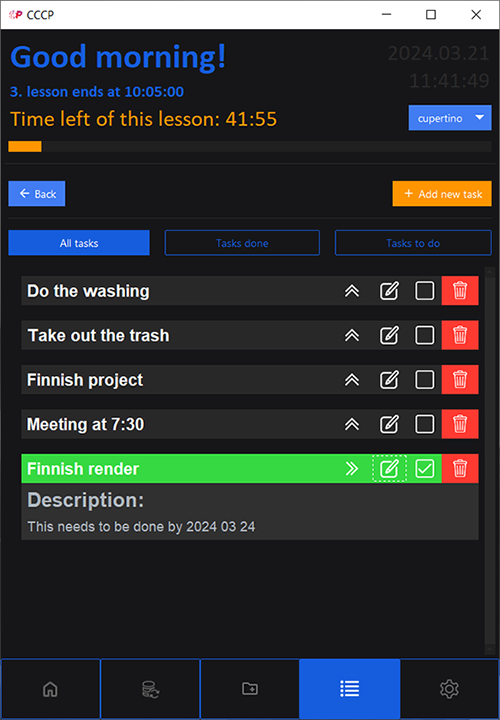
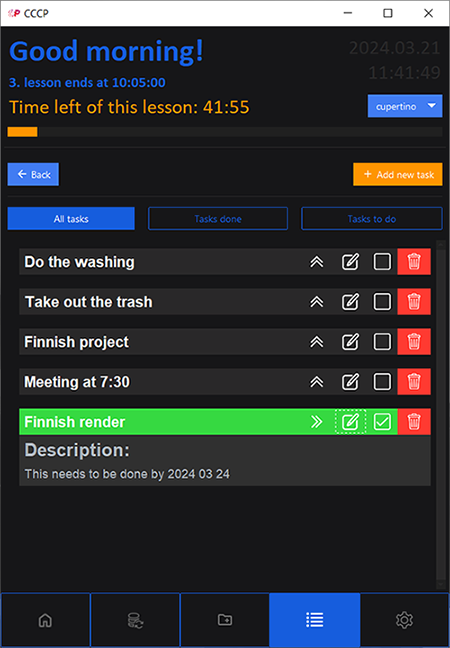
Added high dpi toggle, changed readme images

diff --git a/Modules/Pages/Settings/Settings.py b/Modules/Pages/Settings/Settings.py
@@ -1,3 +1,5 @@
+from ttkbootstrap.dialogs import Messagebox
+
 from Modules.Utilities import Assets
 from Modules.Configfile.Update_Configfile import UpdateConfigfile
 from Modules.Pages.Settings.Sub_Pages.About.About import About
@@ -21,6 +23,7 @@ class Settings(SettingsUI):
         self.refresh_theme()
 
         # Setting widget values
+        self.dpi_var.set(self.config.high_dpi_mode)
         self.custom_themes_button_var.set(self.config.custom_themes)
         reminder_value = "minute" if self.config.reminder_activation == 1 else "minutes"
         self.reminder_activation_var.set(f"{self.config.reminder_activation} {reminder_value}")
@@ -38,6 +41,7 @@ class Settings(SettingsUI):
         self.page_var.trace("w", self.change_starting_page)
         self.theme_var.trace("w", self.change_theme)
         self.custom_themes_button_var.trace("w", self.change_custom_themes)
+        self.dpi_var.trace("w", self.change_high_dpi_mode)
         self.reminder_activation_var.trace("w", self.change_reminder_activation)
         self.browser_var.trace("w", self.change_browser)
         self.progress_bar_var.trace("w", self.change_progress_bar_settings)
@@ -68,6 +72,11 @@ class Settings(SettingsUI):
 
     def refresh_theme(self):
         self.theme_changer.set_menu(None, *self.style_controller.themes)
+
+    def change_high_dpi_mode(self, *args):
+        UpdateConfigfile("high_dpi_mode", self.dpi_var.get())
+        Messagebox.show_warning(title="Warning!",
+                                message="This option will take effect once the application is restarted.")
 
     def change_custom_themes(self, *args):
         custom_themes = bool(self.custom_themes_button_var.get())

diff --git a/Modules/Pages/Settings/UI/Settings_UI.py b/Modules/Pages/Settings/UI/Settings_UI.py
@@ -113,6 +113,50 @@ class SettingsUI:
         self.custom_themes_button.pack(pady=10, side="right", padx=5)
         custom_themes_frame.pack(fill="x")
 
+        # Create high dpi mode
+        dpi_frame = ttk.Frame(general_settings)
+        self.dpi_icon = tk.PhotoImage(file="Assets/Images/Dpi_Icon.png")
+        dpi_label = ttk.Label(dpi_frame,
+                                        text="Enable high dpi mode",
+                                        image=self.dpi_icon,
+                                        compound="left")
+
+        self.dpi_var = tk.IntVar()
+        self.dpi_button = ttk.Checkbutton(
+            master=dpi_frame,
+            style=button_style,
+            variable=self.dpi_var)
+
+        dpi_label.pack(side="left", padx=10, pady=10)
+        self.dpi_button.pack(pady=10, side="right", padx=5)
+        dpi_frame.pack(fill="x")
+
+
+
+
+
+
+
+
+
+
+
+
+
+
+
+
+
+
+
+
+
+
+
+
+
+
+
         # Create theme selector
         theme_frame = ttk.Frame(general_settings)
         self.theme_icon = tk.PhotoImage(file="Assets/Images/Themes_Icon.png")

diff --git a/Modules/Configfile/Config.py b/Modules/Configfile/Config.py
@@ -28,6 +28,7 @@ class Configfile:
         self.enable_secondary_notifier = True
         self.enable_progress_bar = True
         self.current_page = 0
+        self.high_dpi_mode = True
         self.browser = ""
         self.image_locations = []
         self.program_locations = []
@@ -81,6 +82,7 @@ class Configfile:
             self.enable_secondary_notifier = file['enable_secondary_notifier']
             self.enable_progress_bar = file['enable_progress_bar']
             self.current_page = file['current_page']
+            self.high_dpi_mode = file['high_dpi_mode']
             self.browser = file['browser']
             self.number_of_lessons = file['number_of_lessons']
             self.image_locations = file["image_locations"]

diff --git a/CCCP.py b/CCCP.py
@@ -21,8 +21,10 @@ class CCCP:
         self.window.title("CCCP")
         icon = tk.PhotoImage(file="Assets/Images/CCCP_logo_500x500.png")
         self.window.iconphoto(True, icon)
-        ttk.utility.enable_high_dpi_awareness(self.window, scaling=1.6)
         self.style = ttk.Style()
+
+        if config.high_dpi_mode:
+            ttk.utility.enable_high_dpi_awareness(self.window, scaling=1.6)
 
         self.top_frame = ttk.Frame(master=self.window)
         self.top_frame.pack(fill="both")

diff --git a/Modules/Configfile/Config_Data.py b/Modules/Configfile/Config_Data.py
@@ -12,6 +12,7 @@ config_data = {
             "enable_secondary_notifier": True,
             "enable_progress_bar": True,
             "current_page": 0,
+            "high_dpi_mode": True,
             "browser": "chrome",
             "number_of_lessons": Assets.default_number_of_lessons,
             "image_locations": [Assets.default_image_locations for _ in range(13)],
